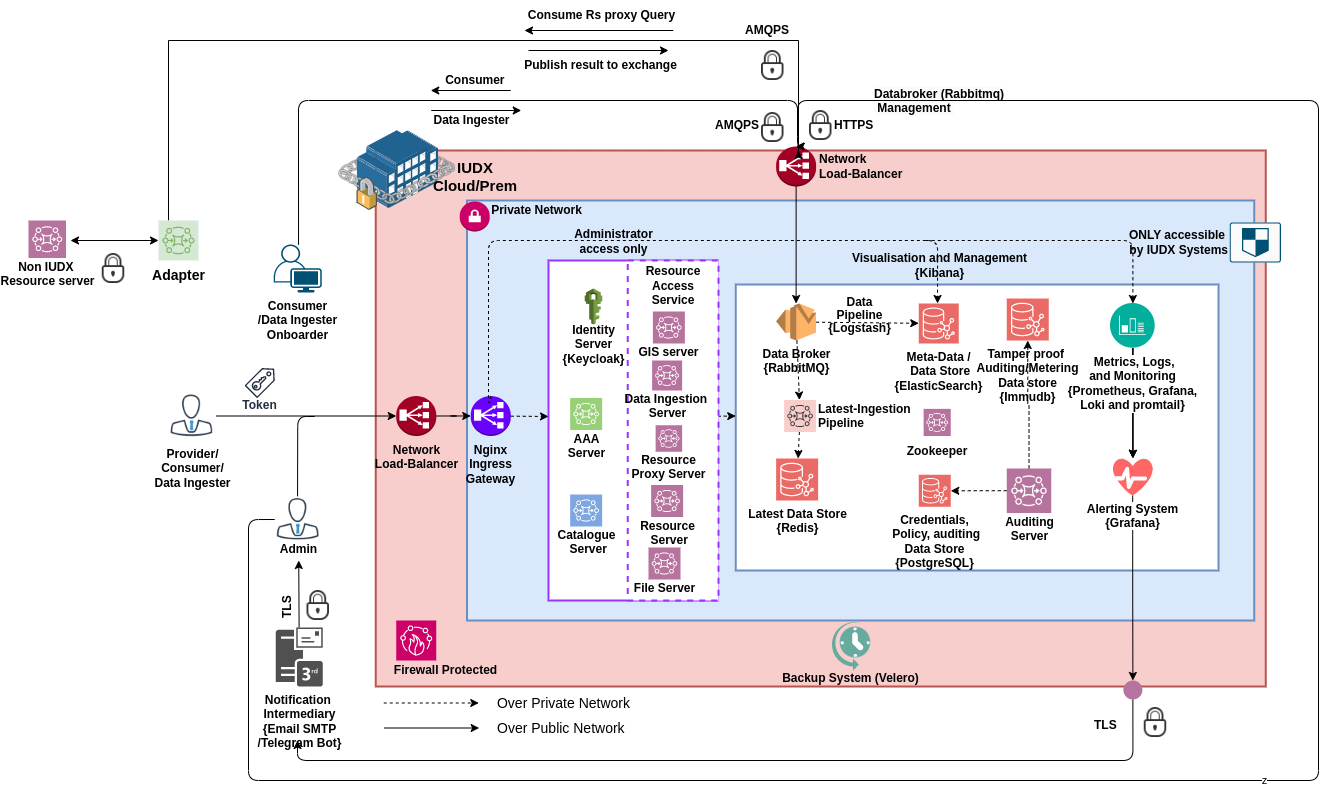
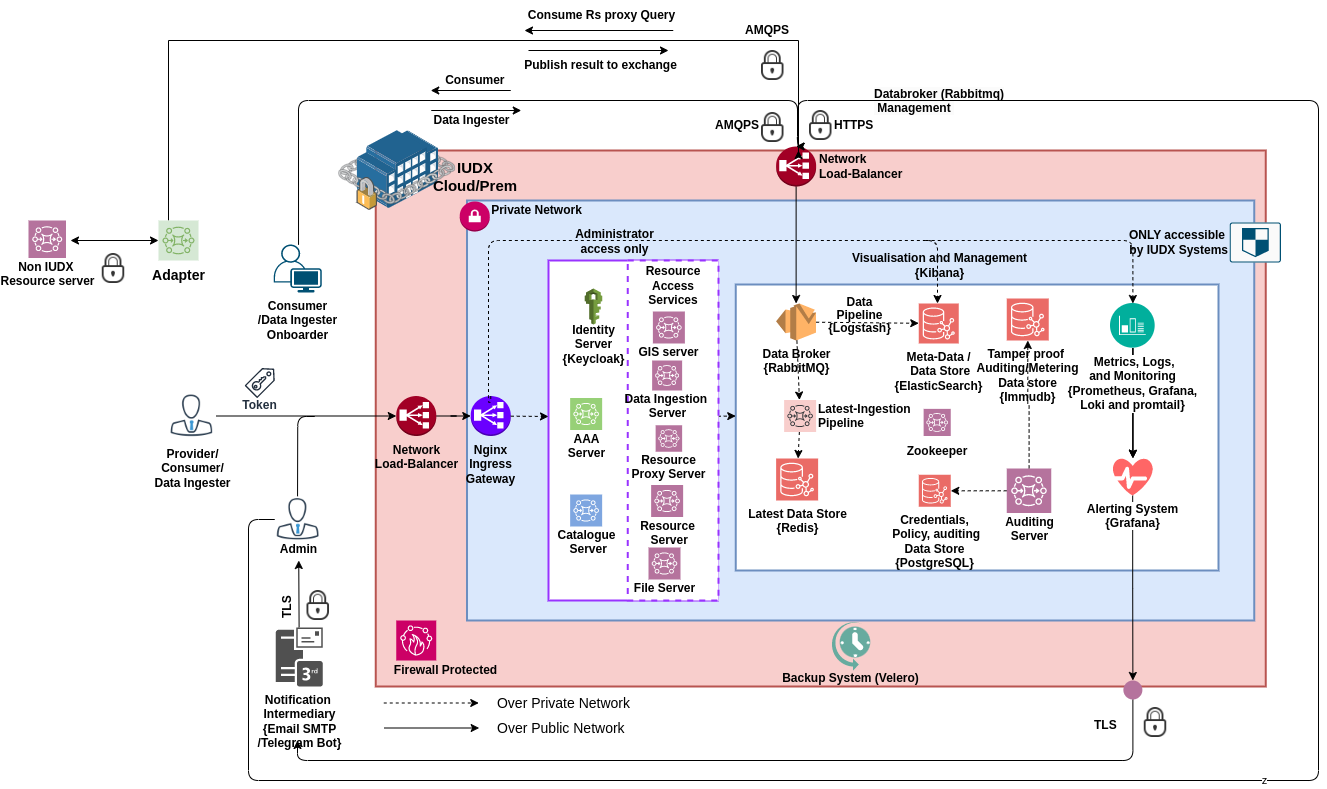
Correct grammar in main readme
- correct the reference to resource access services

diff --git a/README.md b/README.md
@@ -1,57 +1,58 @@
 ![IUDX](./docs/iudx.png)
 
 # iudx-deployment
-This repository gives installation and setup scripts to deploy IUDX platform. We provide and support two types of IUDX platform deployment : 
+This repository gives installation and setup scripts to deploy the IUDX platform. We provide and support two types of IUDX platform deployment : 
 1. [Docker Swarm based deployment](./Docker-Swarm-deployment/single-node/README.md)
 2. [K8s based deployment](./K8s-deployment/README.md)
 
-IUDX platform consists of various IUDX built services and open source components. The overview IUDX platform with components is depicted in below figure.
+The IUDX platform consists of various IUDX-built services and open-source components. The overview IUDX platform with components is shown in the below figure.
 <p align="center">
 <img src="./docs/deployment_overview.png">
 </p>
-IUDX is data exchange platform facilitating seamless discovery, exchange of authorised data. Following is short explanation how various components interact in IUDX platform:
+IUDX is a data exchange platform facilitating the seamless discovery, and exchange of authorized data. Following is a short explanation of how various components interact in the IUDX platform:
 
-- Through IUDX Catalogue server users discovers different datasets available on the platform.
-- A user can register with one or more roles (consumer/provider,data ingester/delegate)  in IUDX AAA and keycloak. The keycloak is used to manage identities of users.
+- Through the IUDX Catalogue server users discovers different datasets available on the platform.
+- A user can register with one or more roles (consumer/provider, data ingester/delegate)  in IUDX AAA and keycloak. The keycloak is used to manage the identities of users.
  
-- The user can get set/request policies at the AAA server, and get a token. IUDX AAA platform manages the policies, APDs through credentials/Policy Data store(Postgres)
+- The user can get set/request policies at the AAA server, and get a token. IUDX AAA platform manages the policies through credentials/Policy Datastore(Postgres).
 
-- Through this token, user can publish(input)/consume (output) data from any of the  IUDX access resource servers (resource server, rs-proxy, GIS server, Data ingestion server)
+- Through this token, the user can publish(input)/consume (output) data from any of the  IUDX resource access services (resource server, rs-proxy, GIS server, Data ingestion server, File server)
  
-- IUDX platform supports following input data flows
-  - A data ingester ( delegate ) can pull the data from the downstream source (ICCC) and push it to databroker (Rabbitmq) . Which then is consumed by Logstash, latest ingestion pipeline and is pushed to the Meta Data/Data Store (Elasticsearch) and Latest Data store (Redis).
+- IUDX platform supports the following input data flows
+  - A data ingester ( delegate ) can pull the data from the downstream source (ICCC) and push it to the databroker (Rabbitmq). Which then is consumed by Logstash, the latest ingestion pipeline, and is pushed to the Meta Data/Data Store (Elasticsearch) and Latest Datastore (Redis).
   - Also a data ingester can directly push data through HTTPS APIs exposed by Data Ingestion Server.
 
-- IUDX platform supports following output data flows
-  - Get data through standardised Resource access server APIs - spatial, temporal, complex, file, gis and async queries.
-  - Get live streaming data through Rabbitmq using resource server Subscription
-  - Get data from non IUDX resource server through resource-server proxy (rs-proxy). This is done through IUDX RS API query translation to non IUDX RS specific queries by set of adapters which reside close to non IUDX RS. The query and response is communicated to adapters and rs-proxy through databroker(Rabbitmq). 
+- IUDX platform supports the following output data flows
+  - Get data through standardized Resource access service APIs - spatial, temporal, complex, file, gis, and async queries.
+  - Get live streaming data through Rabbitmq using a resource server Subscription
+  - Get data from non-IUDX resource server through resource-server proxy (rs-proxy). This is done through IUDX RS API query translation to non-IUDX RS-specific queries by a set of adapters that reside close to non-IUDX RS. The query and response are communicated to adapters and rs-proxy through databroker(Rabbitmq). 
 
-- IUDX platform is monitored through micrometer, prometheus for metrics and promtail, Loki for logs and Grafana for Visualisation 
+- IUDX platform is monitored through the micrometer, Prometheus for metrics and promtail, Loki for logs, and Grafana for Visualisation 
 -  The alerting through SMTP server for emails or Telegram bot for telegram messages.
-- All HTTPS API requests are processed through API gateway.
-- The Rabbitmq specific communication i.e. streaming of data through AMQPS and HTTPS management interface is through streaming gateway
-- Hazlecase with Zookeeper is used as our cluster manager for all Vert.x based API servers.
+- All HTTPS API requests are processed through the API gateway.
+- The Rabbitmq specific communication i.e. streaming of data through AMQPS and HTTPS management interface is through the streaming gateway
+- Hazlecast with Zookeeper is used as the cluster manager for all Vert.x based API servers.
+- Successful API calls are audited in tamper proof database - immudb and in postgres through auditing server
 
-To know more on IUDX, refer following resources: 
-1. [What is IUDX?](https://youtu.be/uWdmHztFrqs) To get overview of IUDX platform and its main motivation
-2. [IUDX Architecture Overview for deep drive of IUDX architecture](https://www.youtube.com/watch?v=FeiZz0fJi5w)
+To know more about IUDX, refer following resources: 
+1. [What is IUDX?](https://youtu.be/uWdmHztFrqs) To get an overview of the IUDX platform and its main motivation
+2. [IUDX Architecture Overview](https://www.youtube.com/watch?v=FeiZz0fJi5w)
 3. [IUDX Developer Section](https://iudx.org.in/developers/)
 
 
 ## Features
 - Service Mesh Architecture based Vert.x API servers.
 - Each microservice is a well-defined module that can be containerized and discovered using service discovery. 
-- Docker Swarm deployment enables easy, cost effective deployment of IUDX platform suitable for prototyping and PoC.
-- Kubernetes based deployment of IUDX platform gives scalable, highly available system through clustered deployment of each component. Its suitable for production grade deployment.
-- Both docker and K8s based deployment is cloud agnostic* and can be deployed on any cloud or on-prem. It 
+- Docker Swarm deployment enables easy, cost-effective deployment of the IUDX platform suitable for prototyping and PoC.
+- Kubernetes-based deployment of the IUDX platform gives a scalable, highly available system through the clustered deployment of each component. It's suitable for production-grade deployment.
+- Both docker and K8s-based deployment is cloud agnostic* and can be deployed on any cloud or on-prem. It 
 has been tested currently on AWS and Azure.
 
 
-\*Note: K8s deployment depends on certain cloud services - Load Balancer, Storage, Object Storage, K8s cluster autoscaling but since this is offered by major clouds. It can be integrated to these cloud providers.
+\*Note: K8s deployment depends on certain cloud services - Load Balancer, Storage, Object Storage, K8s cluster autoscaling but since this is offered by major clouds. It can be integrated into these cloud providers.
 ## Contributing
 We follow Git Merge based workflow
 1. Fork this repo
-2. Create a new feature branch in your fork. Multiple features must have a hyphen separated name, or refer to a milestone name as mentioned in Github -> Projects 
-3. Commit to your fork and raise a Pull Request with upstream. <br>
-A detailed instructions present [here](docs/git-commands.md).
+2. Create a new feature branch in your fork. Multiple features must have a hyphen-separated name, or refer to a milestone name as mentioned in Github -> Projects 
+3. Commit to your fork and raise a Pull Request upstream. <br>
+Detailed instructions are present [here](docs/git-commands.md).
